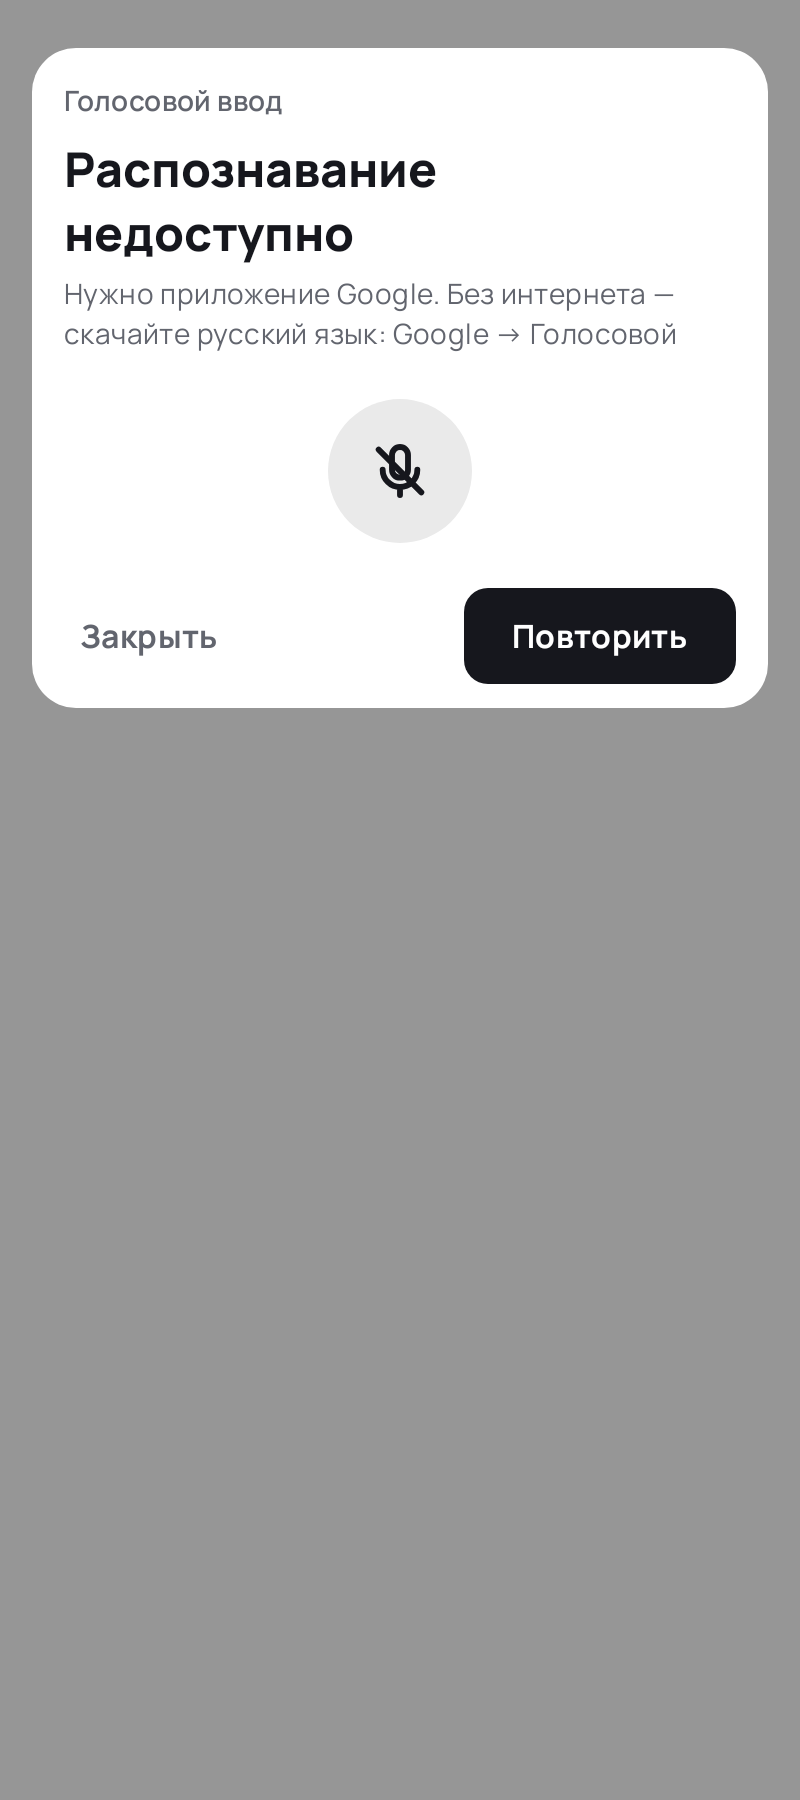
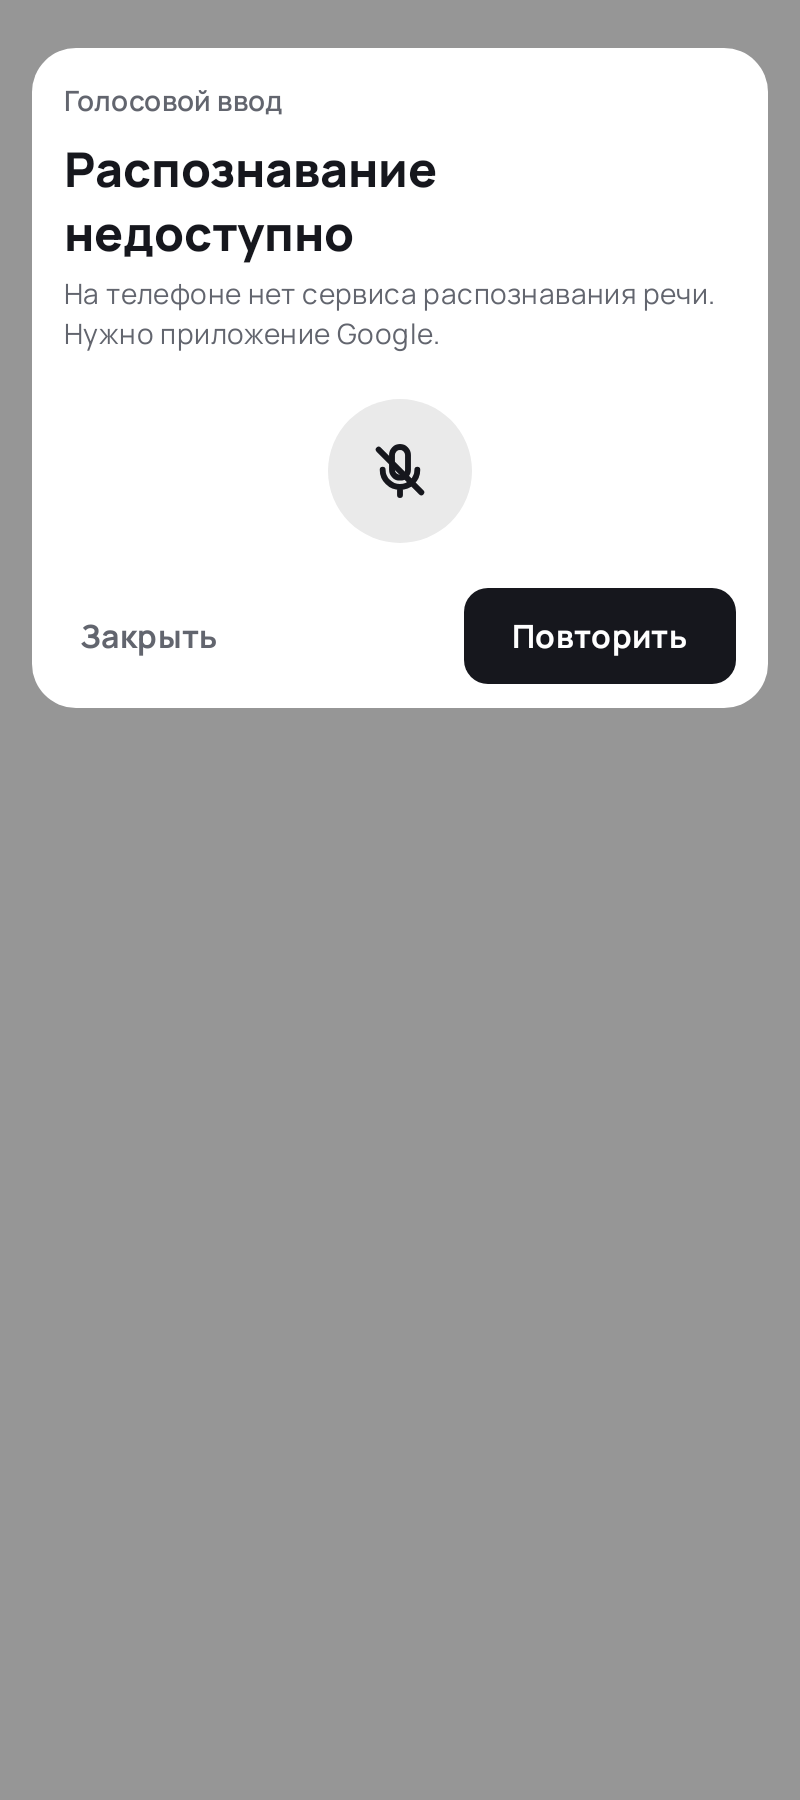
Снимки и отчёт локальной проверки 0.82.2 (#302)
Claude-Session: https://claude.ai/code/session_019jJJH8rKyfX5gCn8Qf3pcD

Changed region(s): [[0.0938, 0.1556, 0.8438, 0.2178]]

diff --git a/docs/HANDOFF.md b/docs/HANDOFF.md
@@ -4,7 +4,7 @@
 
 ## В работе — #302, 0.82.2
 
-Исполнитель Claude Code, ветка `claude/voice-restart-fix` от main `20739dbb9980c337a311154e2b5fabfc2cb61b8f`. [Задача #302](https://github.com/prostovasei/simpe-tasks-app/issues/302). PM на 0.82.1: при повторном запуске записи (только при повторном) периодически «Распознавание недоступно». Причина: каждый запуск пересоздавал `SpeechRecognizer`, временный код сервиса показывался как «недоступно». Исправление: один распознаватель на окно, тихий автоповтор временного сбоя, отдельные тексты ошибок, код в журнале. PM дал «Код» 23.11.2026. UI — только тексты ошибок, макеты не требовались. Последний отправленный коммит фиксируется в #302.
+Исполнитель Claude Code, ветка `claude/voice-restart-fix` от main `20739dbb9980c337a311154e2b5fabfc2cb61b8f`. [Задача #302](https://github.com/prostovasei/simpe-tasks-app/issues/302). PM на 0.82.1: при повторном запуске записи (только при повторном) периодически «Распознавание недоступно». Причина: каждый запуск пересоздавал `SpeechRecognizer`, временный код сервиса показывался как «недоступно». Исправление: один распознаватель на окно, тихий автоповтор временного сбоя, отдельные тексты ошибок, код в журнале. PM дал «Код» 23.11.2026. UI — только тексты ошибок, макеты не требовались. Код готов: локально 929 тестов, 0 ошибок, 3 пропуска, [отчёт](testing-runs/0.82.2-local.md). Следующий этап — «Проверка» по команде PM. Последний отправленный коммит фиксируется в #302.
 
 Следующие итерации (PM 23.11.2026): #192 — отменить один повтор серии; #300 — отметка новых и просмотренных новостей.
 

diff --git a/docs/testing-runs/0.82.2-local.md b/docs/testing-runs/0.82.2-local.md
@@ -1,0 +1,11 @@
+# 0.82.2 — локальная проверка (#302)
+
+23.11.2026, Claude Code, облачный контейнер. Ветка `claude/voice-restart-fix`.
+
+## Этап «Код»
+
+- `./gradlew assembleDebug check recordRoborazziDebug` — успешно: 929 тестов, 0 ошибок, 3 пропуска; lint, токены и AppSmokeTest прошли.
+- Новые тесты `AndroidVoiceEngineTest` (настоящий `SpeechRecognizer` под Robolectric): повторный запуск использует тот же распознаватель и не уничтожает его; временный сбой до первых слов не показывается, распознаватель пересоздаётся и запуск повторяется через 500 мс; второй сбой показывается как «Не удалось начать запись»; сбой после первых слов не повторяется; коды пишутся в журнал. `VoiceInputTest`: разбор кодов (сеть, язык, временные), окно «Не удалось начать запись».
+- Снимки: `voice_start_failed_light` (новый), `voice_unavailable_light` (новая подсказка). Снимки, зависящие от даты, возвращены к версии main.
+
+Не проверено локально: настоящий сервис Google при быстром перезапуске — VR302-1–4 на телефоне.
